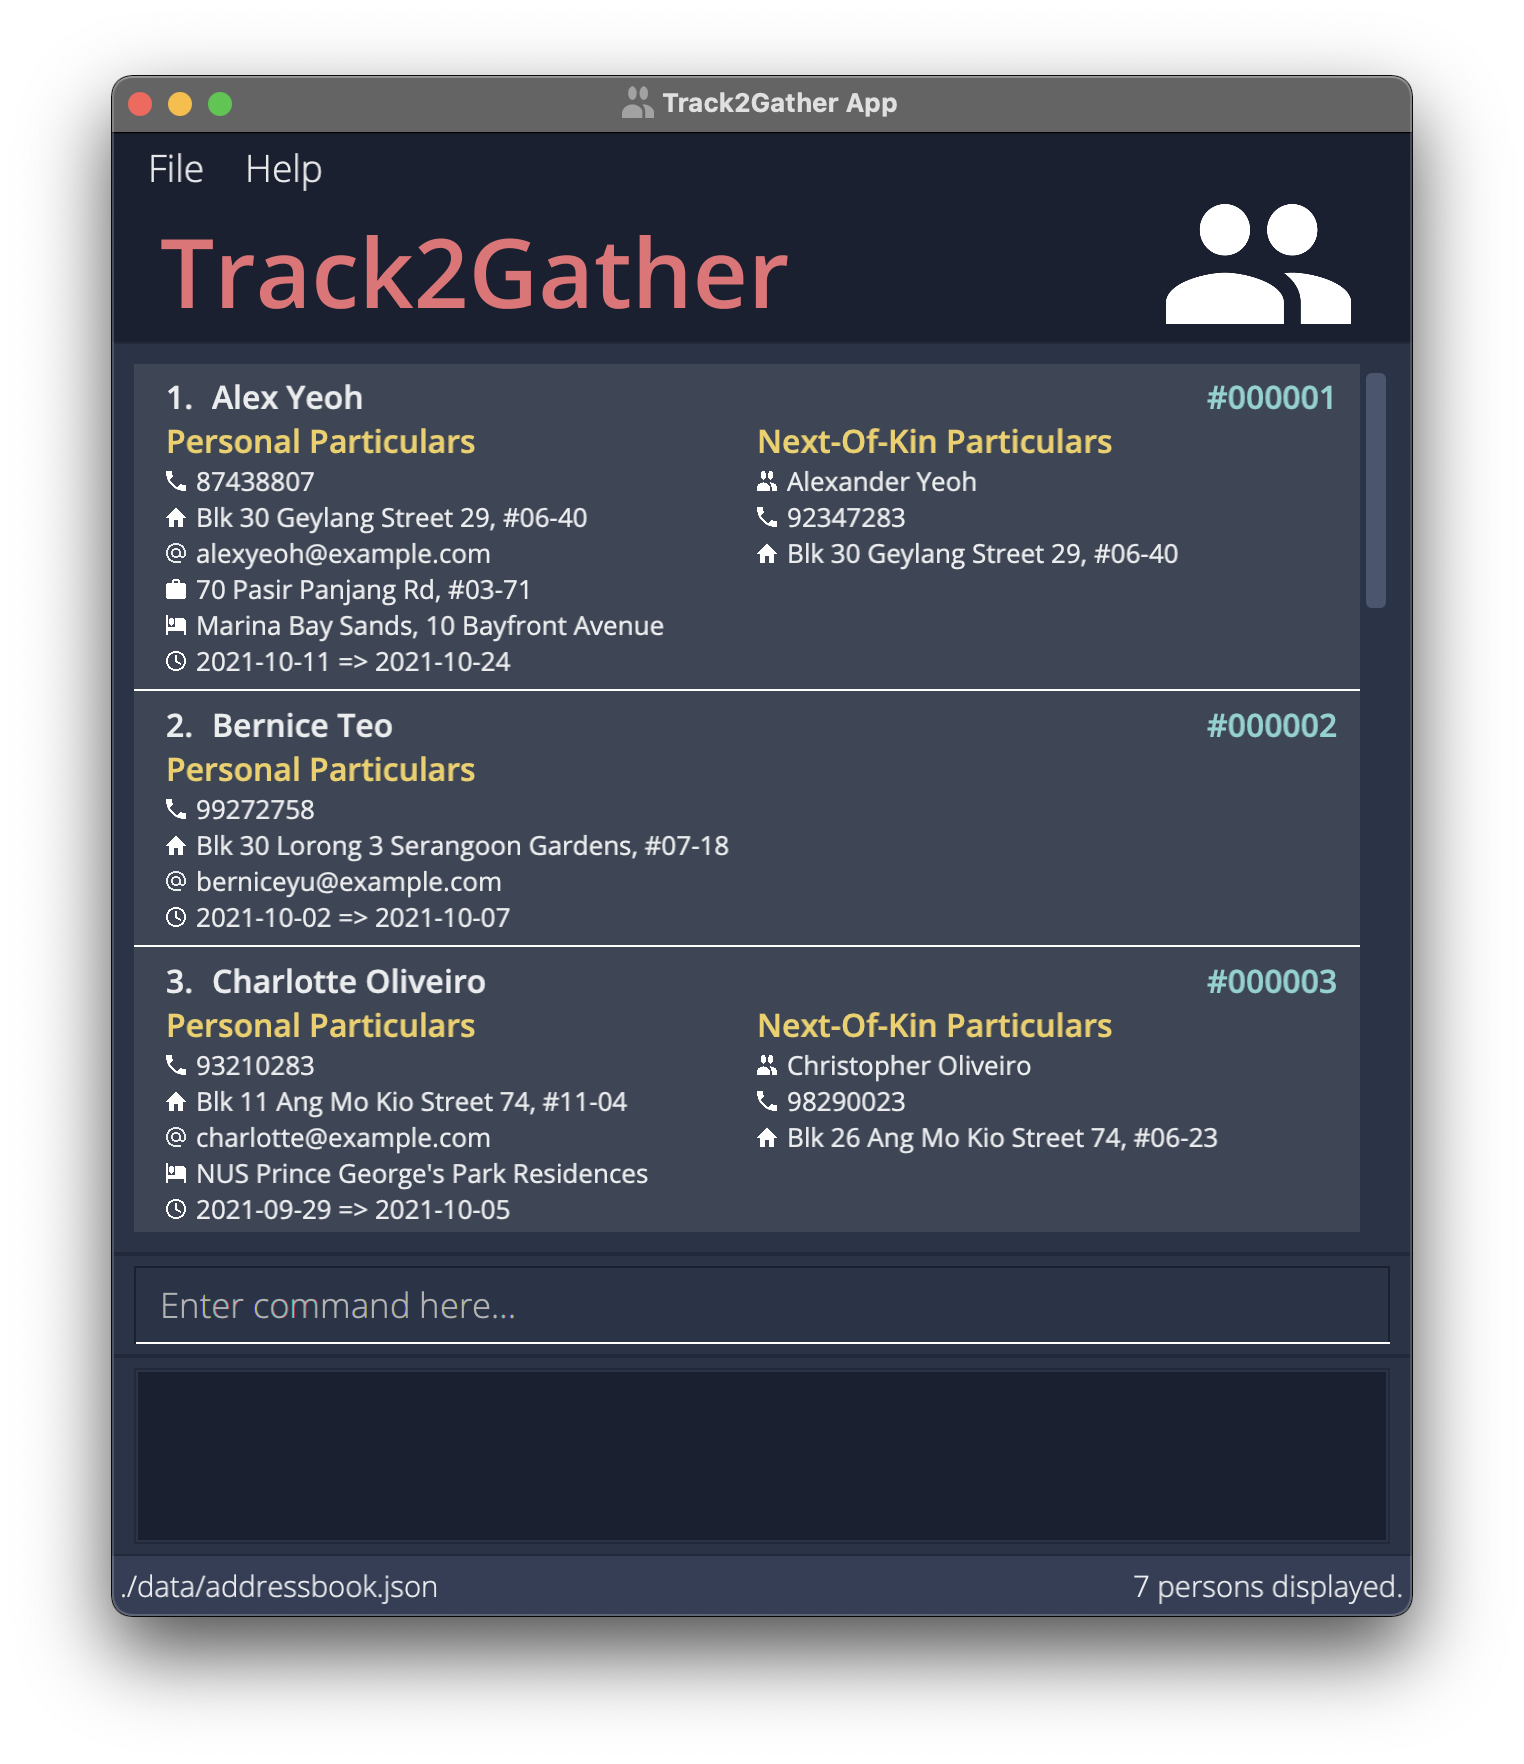
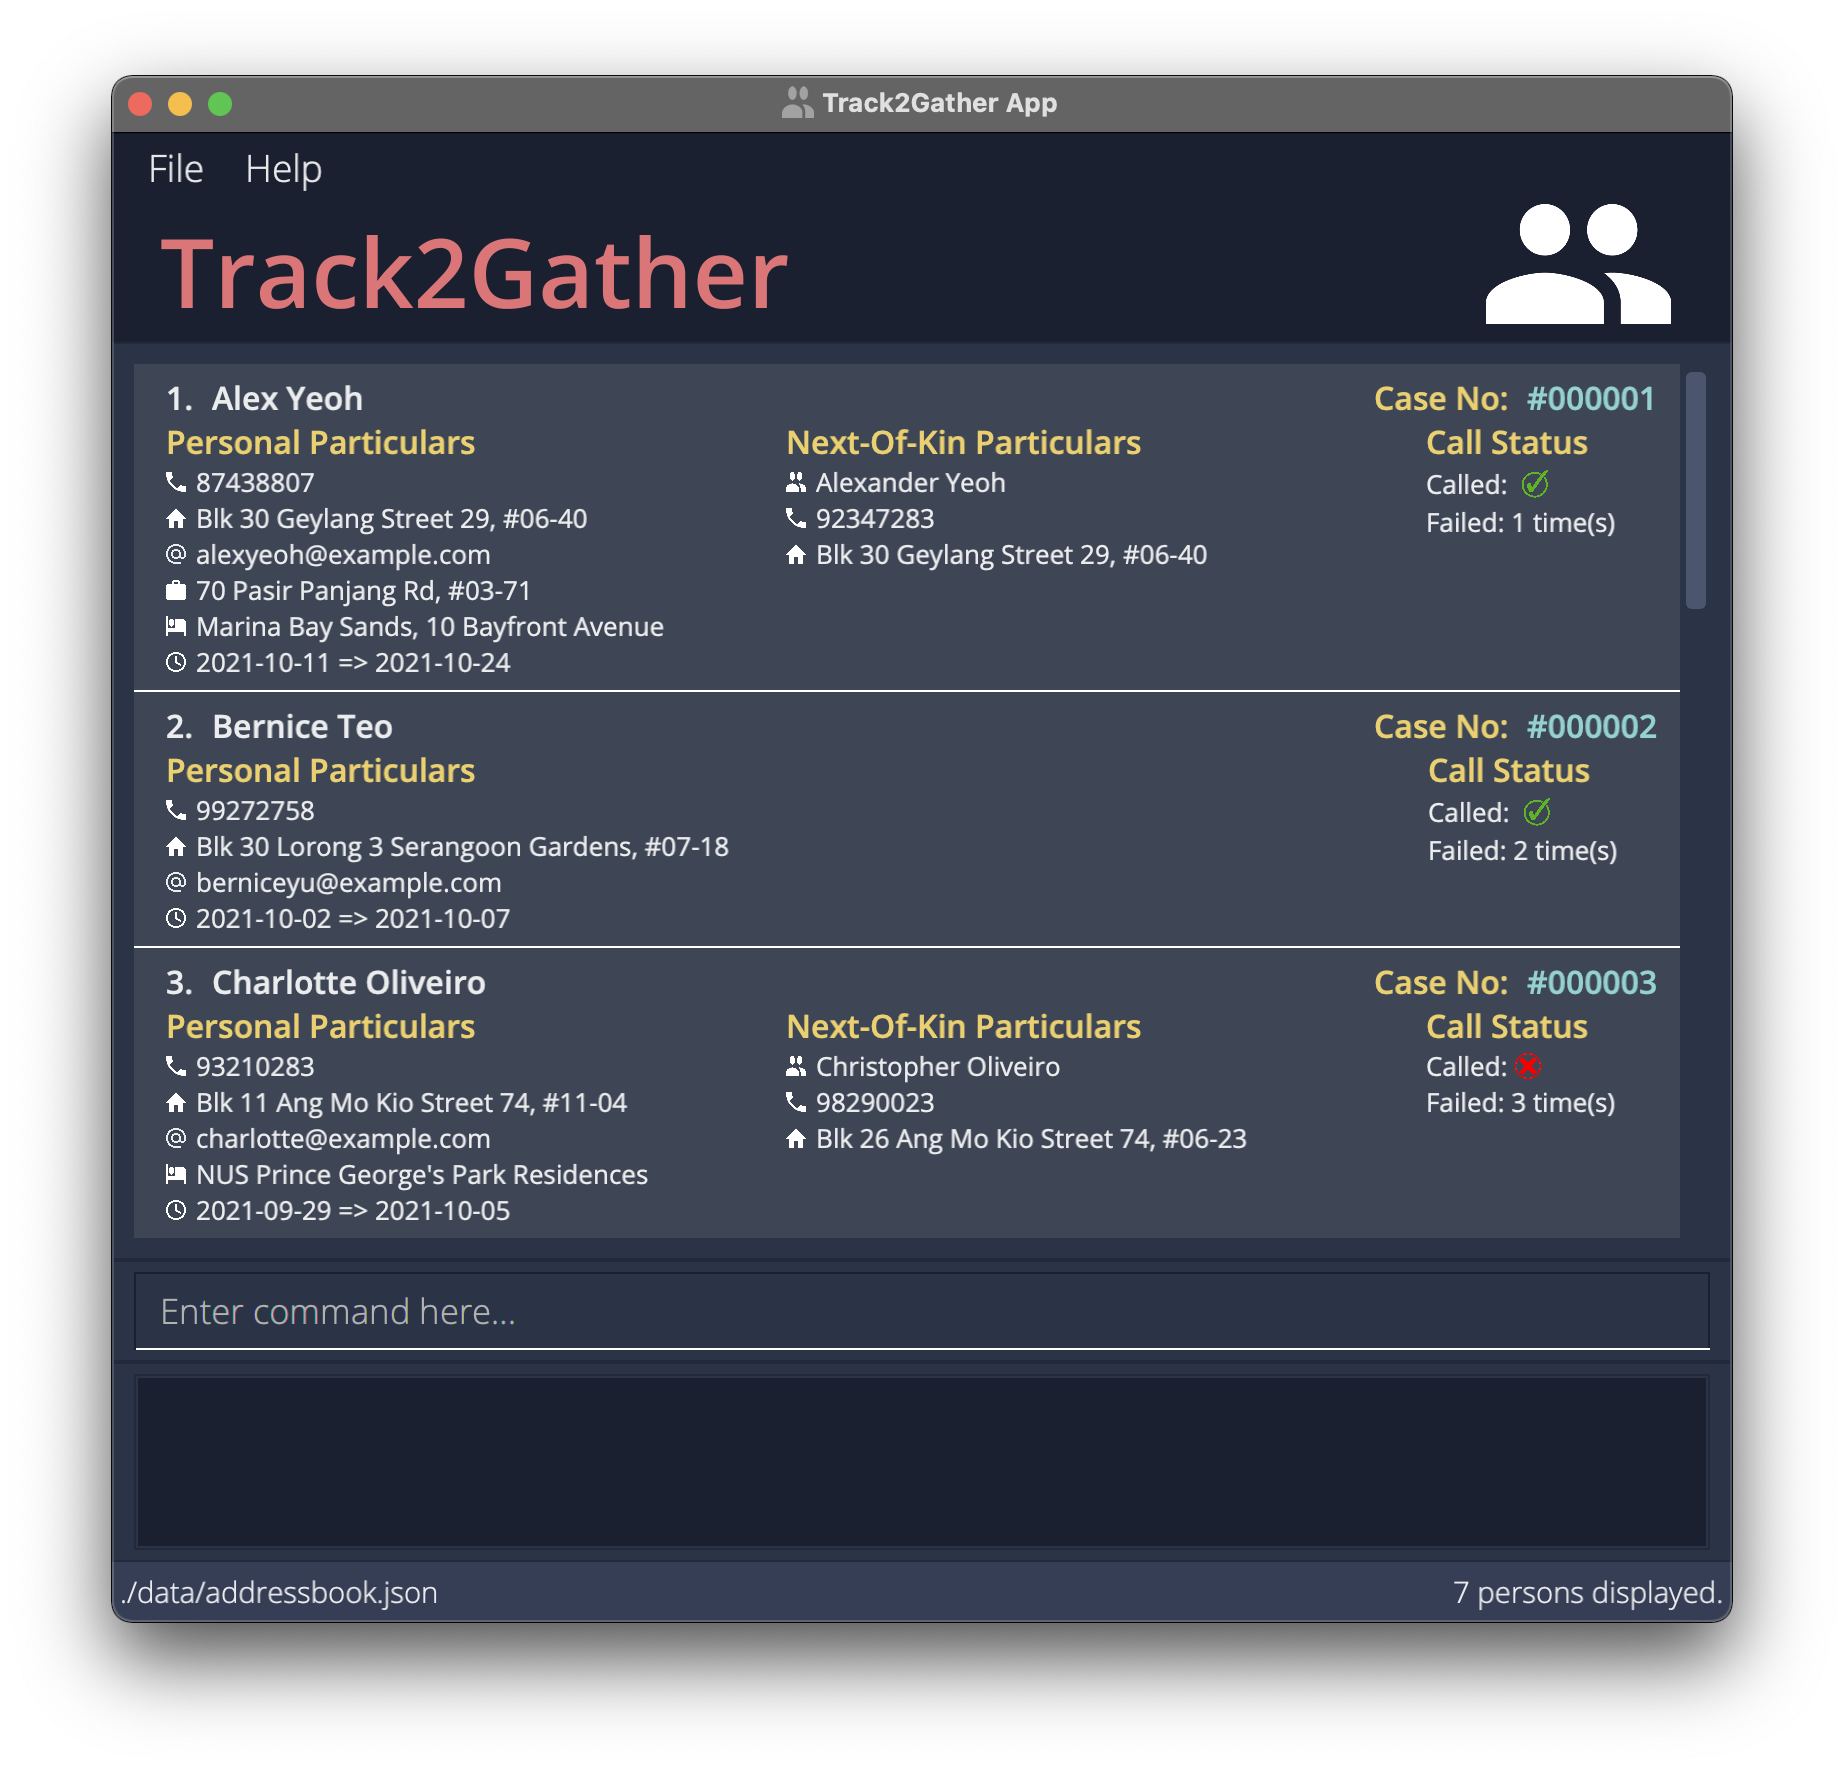
Update GUI to reflect v1.3 changes

diff --git a/src/main/java/seedu/address/ui/PersonCard.java b/src/main/java/seedu/address/ui/PersonCard.java
@@ -3,7 +3,7 @@ package seedu.address.ui;
 import javafx.fxml.FXML;
 import javafx.scene.Node;
 import javafx.scene.control.Label;
-import javafx.scene.layout.FlowPane;
+import javafx.scene.image.ImageView;
 import javafx.scene.layout.HBox;
 import javafx.scene.layout.Region;
 import javafx.scene.layout.VBox;
@@ -53,7 +53,7 @@ public class PersonCard extends UiPart<Region> {
     @FXML
     private Label nextOfKinAddress;
     @FXML
-    private FlowPane tags;
+    private Label numFailedCalls;
     @FXML
     private HBox phoneHBox;
     @FXML
@@ -67,13 +67,19 @@ public class PersonCard extends UiPart<Region> {
     @FXML
     private HBox shnPeriodHBox;
     @FXML
-    private VBox nextOfKinBlock;
-    @FXML
     private HBox nextOfKinNameHBox;
     @FXML
     private HBox nextOfKinPhoneHBox;
     @FXML
     private HBox nextOfKinAddressHBox;
+    @FXML
+    private VBox nextOfKinBlock;
+    @FXML
+    private VBox callStatusBlock;
+    @FXML
+    private ImageView callStatusTick;
+    @FXML
+    private ImageView callStatusCross;
 
     /**
      * Creates a {@code PersonCode} with the given {@code Person} and index to display.
@@ -106,11 +112,19 @@ public class PersonCard extends UiPart<Region> {
         person.getNextOfKinAddress().map(Object::toString).ifPresentOrElse(
             text -> nextOfKinAddress.setText(text), () -> hideNode(nextOfKinAddressHBox));
 
-        if (!person.getNextOfKinName().isPresent()
-                && !person.getNextOfKinAddress().isPresent()
-                && !person.getNextOfKinAddress().isPresent()) {
+        if (person.getNextOfKinName().isEmpty()
+                && person.getNextOfKinAddress().isEmpty()
+                && person.getNextOfKinAddress().isEmpty()) {
             hideNode(nextOfKinBlock);
         }
+
+        if (person.getCallStatus().isCalledInCurrentSession()) {
+            hideNode(callStatusCross);
+        } else {
+            hideNode(callStatusTick);
+        }
+
+        numFailedCalls.setText(String.format("Failed: %s time(s)", person.getCallStatus().getNumFailedCalls()));
     }
 
     /**

diff --git a/src/main/java/seedu/address/ui/HelpWindow.java b/src/main/java/seedu/address/ui/HelpWindow.java
@@ -15,7 +15,7 @@ import seedu.address.commons.core.LogsCenter;
  */
 public class HelpWindow extends UiPart<Stage> {
 
-    public static final String USERGUIDE_URL = "https://se-education.org/addressbook-level3/UserGuide.html";
+    public static final String USERGUIDE_URL = "https://ay2122s1-cs2103-w14-2.github.io/tp/UserGuide.html";
     public static final String HELP_MESSAGE = "Refer to the user guide: " + USERGUIDE_URL;
 
     private static final Logger logger = LogsCenter.getLogger(HelpWindow.class);

diff --git a/docs/DeveloperGuide.md b/docs/DeveloperGuide.md
@@ -265,14 +265,13 @@ Priorities: High (must have) - `* * *`, Medium (nice to have) - `* *`, Low (unli
 | Priority | As a …                                  | I want to …                   | So that I can…                                                         |
 | -------- | ---------------------------------------- | ------------------------------ | ----------------------------------------------------------------------- |
 | `* * *`  | new user                                 | see usage instructions         | refer to instructions when I forget how to use the app                  |
-| `* * *`  | user                                     | update contacts’ contact details without re-adding that contact | avoid re-entering existing data        |
+| `* * *`  | user                                     | update contact's contact details and SHN periods without re-adding that contact  | avoid re-entering existing data |
 | `* * *`  | user                                     | find person(s) by name, phone number, case number, SHN start date or SHN end date          | locate details of person(s) containing keyword(s) in a specified field without having to go through the entire list  |
 | `* * *`  | user                                     | save my contacts               | keep track of their details between sessions                            |
 | `* *`    | experienced user                         | directly adjust my save files  | bypass the CLI for simple bulk tasks                                    |
 | `* * *`  | user                                     | add my contact’s next-of-kin’s information | contact the patient’s next-of-kin should an emergency arise |
 | `* *`    | user                                     | quickly batch-remove contacts whose SHN has been completed | clear outdated contacts                     |
 | `* *`    | user                                     | delete multiple contacts at once | more easily clean my contacts                                         |
-| `* *`    | user                                     | update contact's contact details and SHN periods | so that i do not have to re-enter existing data       |
 | `* *`    | user                                     | batch-update SHN periods       | extend or shorten the SHN end dates according to government mandates    |
 | `* *`    | user                                     | sort contacts by fields        | more easily browse through the contacts                                 |
 
